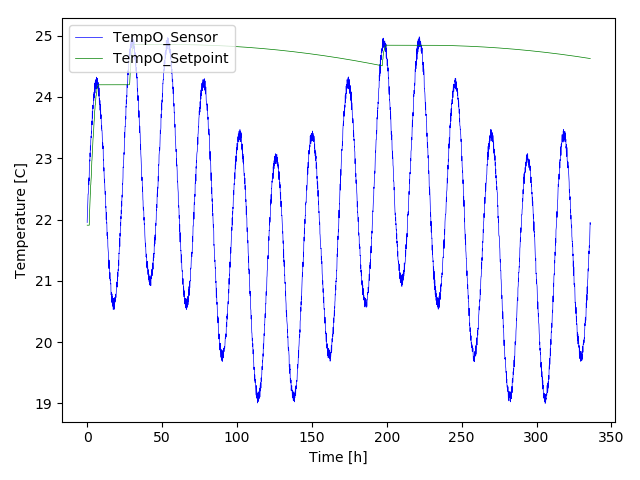
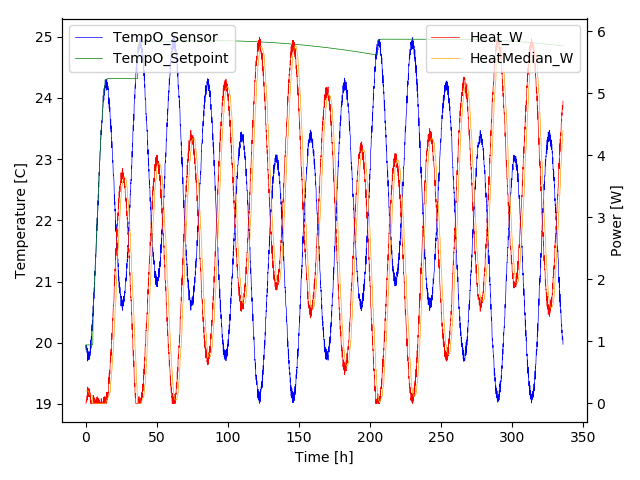
Updated Simulation

diff --git a/software/node/program/portable_tempstabilizer.py b/software/node/program/portable_tempstabilizer.py
@@ -120,9 +120,9 @@ class TempStabilizer:
 
     # Fehlerkorrektur:
     fCurrent = self.fHeat_W / fSupplyHV_V
-    fDAC_V = -0.2724*math.exp(-fCurrent/0.01068)+3.003*fCurrent+0.3045 + self.fDACzeroHeat_V - 0.161
+    fDac_V_ = -0.2724*math.exp(-fCurrent/0.01068)+3.003*fCurrent+0.3045 + self.fDACzeroHeat_V - 0.161
     # Limitieren auf den möglichen Spannungsbereich des DAC
-    fDAC_V = min(max(0.0, fDAC_V), 3.3)
+    fDac_V_ = min(max(0.0, fDac_V_), 3.3)
     
     if (not self.bZeroHeatForecast) and objHw.bZeroHeat:
       self.fDACzeroHeat_V += 0.00001
@@ -130,7 +130,7 @@ class TempStabilizer:
       self.fDACzeroHeat_V -= 0.00001
     # Prognose wie bZeroHeat sein sollte
     self.bZeroHeatForecast = fCurrent < 0.004
-    return fDAC_V
+    return fDac_V_
 
   @property
   def bFetMax_W_Limit_High(self):
@@ -255,7 +255,7 @@ class TempStabilizer:
                     '%0.1f' % (portable_ticks.objTicks.ticks_ms()/1000.0),
                     '%0.2f' % self.fTempH_C,
                     '%0.3f' % self.fTempO_C,
-                    '%0.2f' % self.fDac_V,
+                    '%0.2f' % objHw.fDac_V,
                     '%0.2f' % self.fHeat_W,
                     '%0.2f' % self.fTempH_Setpoint_C,
                     '%0.3f' % self.fTempO_Setpoint_C,

diff --git a/software/simulation_tests/simulation_test_pidh_pido_day.py b/software/simulation_tests/simulation_test_pidh_pido_day.py
@@ -9,8 +9,7 @@ iMaxTicks_ms = portable_daymaxestimator.TIME_PROCESS_DAYMAXESTIMATOR_MS
 config_app.iSimulationInitiMaxTicks_ms = int(1.33*iMaxTicks_ms)
 
 config_app.iLogSimuliertPlotInterval_ms = min(iMaxTicks_ms, portable_constants.HOUR_MS)
-# TODO(Hans): Fix crash when enabling log
-# config_app.iLogInterval_ms = config_app.iLogSimuliertPlotInterval_ms
+config_app.iLogInterval_ms = config_app.iLogSimuliertPlotInterval_ms
 config_app.iExperimentDuration_ms = 2*portable_constants.DAY_MS
 config_app.fStart_Increment_fTempO_C = 0.0 # Soll beim Start nicht heizen
 

diff --git a/software/node/program/portable_controller.py b/software/node/program/portable_controller.py
@@ -31,6 +31,8 @@ class Controller:
     self.objGrafanaProtocol = self.factoryGrafanaProtocol()
     self.attachFileToGrafanaProtocol()
     self.objTs = self.factoryTempStabilizer()
+    if self.fLog != None:
+      self.objTs.logHeader(self.fLog)
 
   def __forceWlanFirstTime(self):
     # On PowerOn: start with Wlan
@@ -66,8 +68,6 @@ class Controller:
 
   def openLogs(self):
     self.fLog = self.factoryLog()
-    if self.fLog != None:
-      self.objTs.logHeader(self.fLog)
 
   def closeLogs(self):
     if self.fLog != None:

diff --git a/software/simulation_tests/simulation_test_pidh_pido.py b/software/simulation_tests/simulation_test_pidh_pido.py
@@ -10,8 +10,7 @@ import simulation_controller
 import simulation_hw_hal
 
 config_app.iLogSimuliertPlotInterval_ms = 5*portable_constants.SECOND_MS
-# TODO(Hans): Fix crash when enabling log
-# config_app.iLogInterval_ms = config_app.iLogSimuliertPlotInterval_ms
+config_app.iLogInterval_ms = config_app.iLogSimuliertPlotInterval_ms
 config_app.iExperimentDuration_ms = 500*portable_constants.SECOND_MS
 config_app.iTimeProcess_O_H_ms = 10
 config_app.fStart_Increment_fTempO_C = 0.1 # Damit es etwas zu Heizen gibt

diff --git a/software/simulation_tests/simulation_test_pidh.py b/software/simulation_tests/simulation_test_pidh.py
@@ -9,8 +9,7 @@ import portable_simuliert_tagesmodell
 import simulation_pyplot
 
 config_app.iLogSimuliertPlotInterval_ms = 1000
-# TODO(Hans): Fix crash when enabling log
-# config_app.iLogInterval_ms = config_app.iLogSimuliertPlotInterval_ms
+config_app.iLogInterval_ms = config_app.iLogSimuliertPlotInterval_ms
 config_app.iExperimentDuration_ms = 100 * 1000
 config_app.iTimeProcess_O_H_ms = 10
 config_app.fStart_Increment_fTempO_C = 0.1 # Damit es etwas zu Heizen gibt
